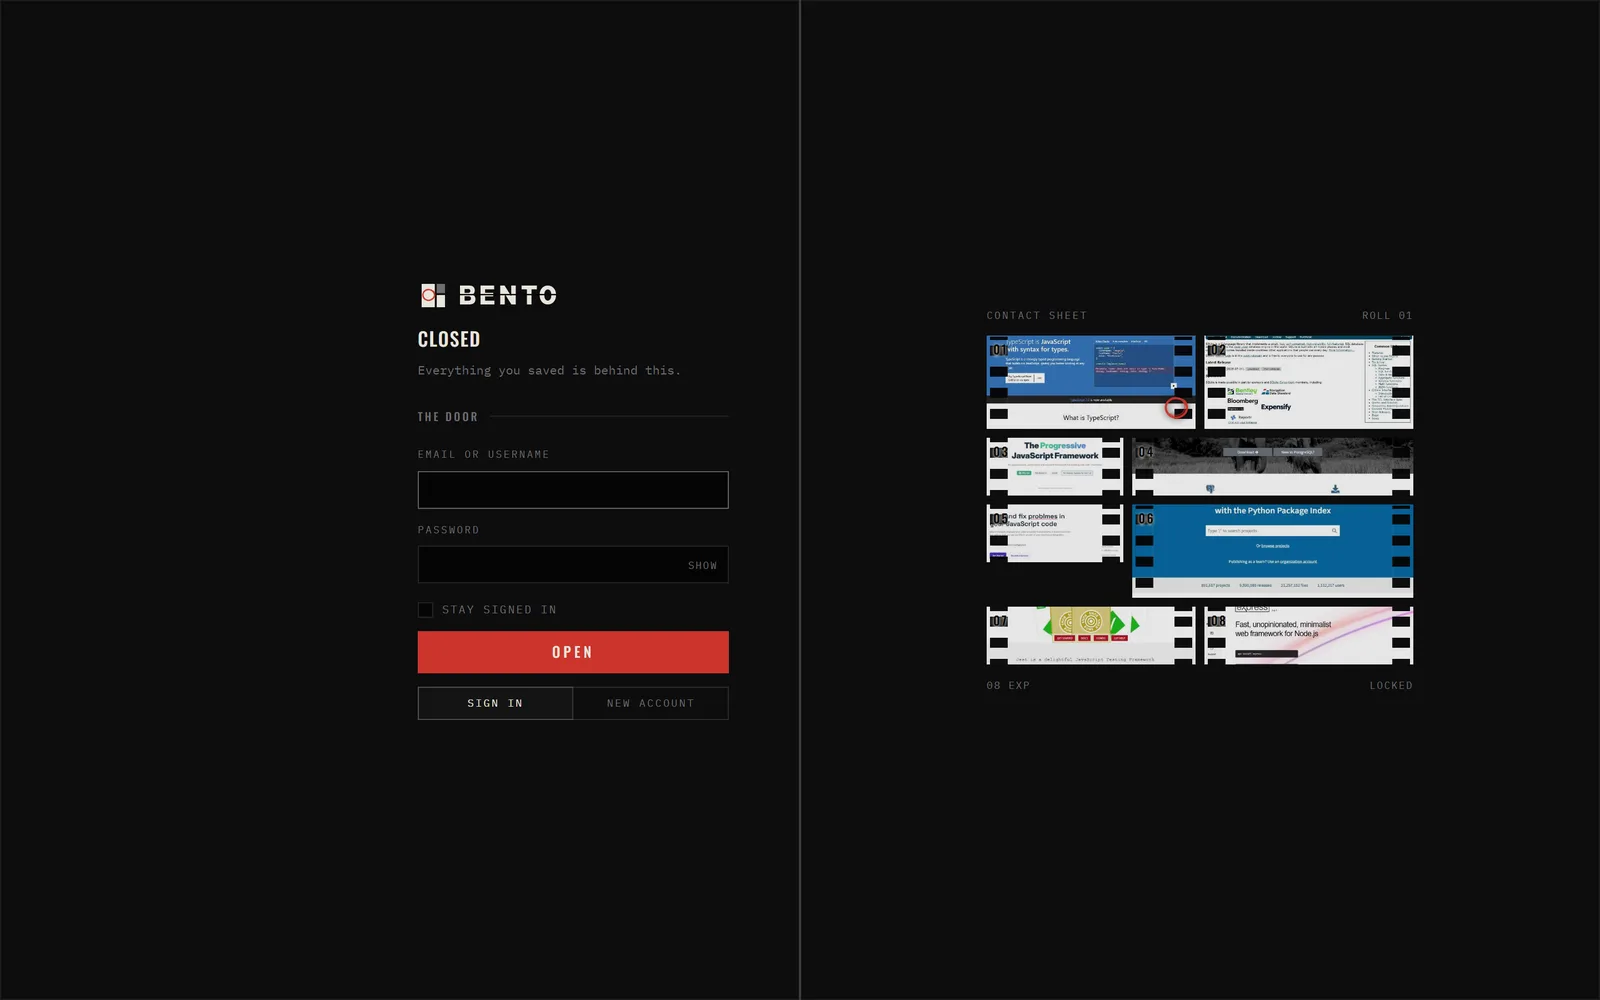
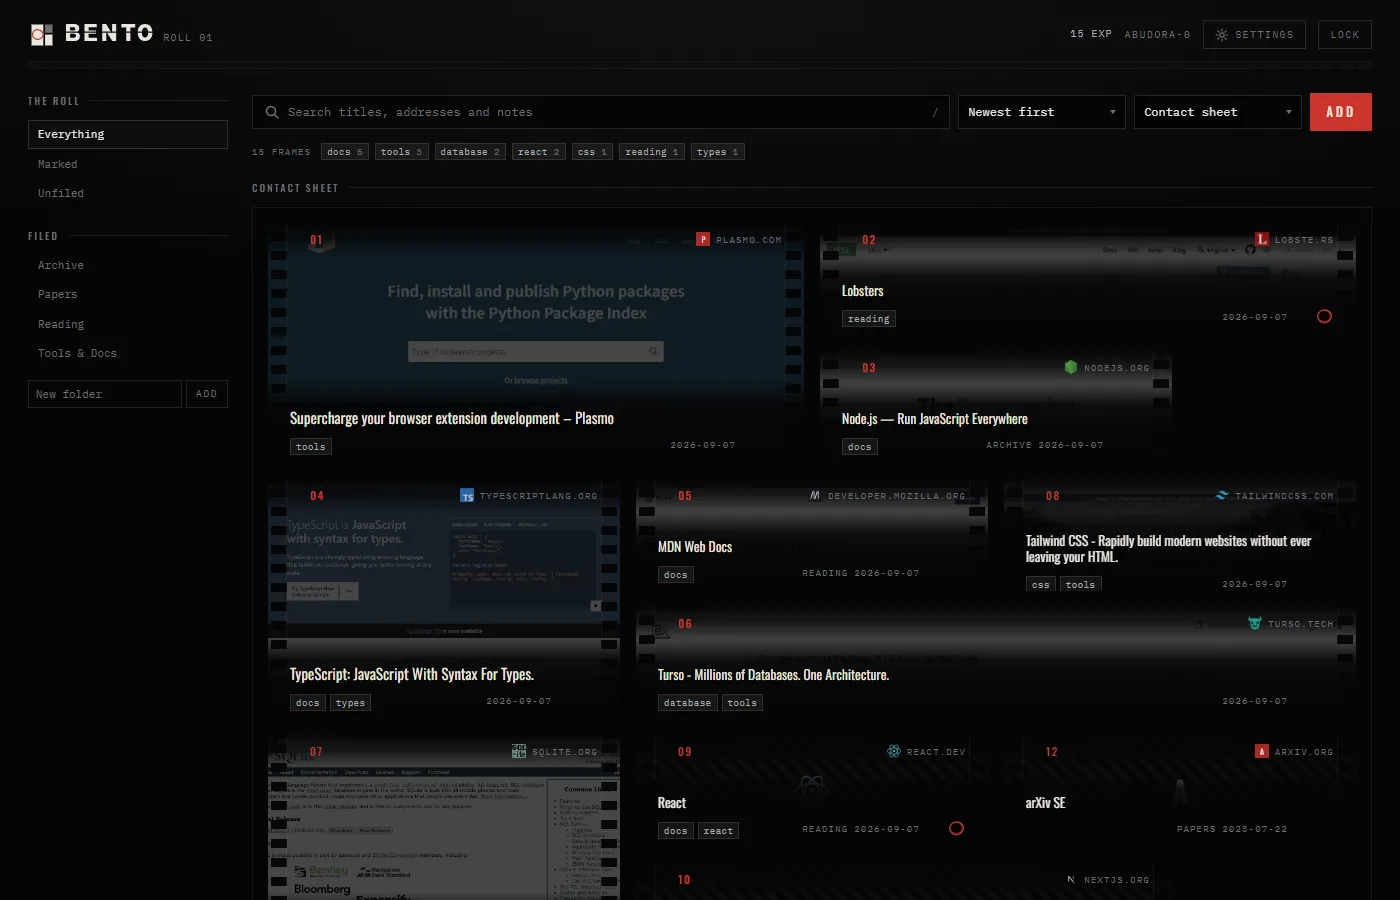
Fix screenshots and index row layout found on the deployed site
- omnikit-2 was a screenshot of a 404 page: the tool route it pointed at does
  not exist. The grid view replaces it, which shows the breadth anyway
- bento-2 was the lock screen, almost entirely empty. Bento's own committed
  capture of the sheet goes in instead, so the product is finally visible
- wakaru-4 was an empty drop zone. Swapped for Wakaru's capture of a page
  actually read and translated
- Capture script learns two options: a local `from` source for shots the live
  site cannot reach without signing in or uploading a file, and `scrollY`
- Index rows carry the tagline, which fills the dead stretch between the name
  and the metadata on wide screens
- Ship dates read "Sep '26" rather than "Sep 26", which scanned as a day
- The hover hint is hidden on touch, where there is nothing to hover
- metadataBase points at the domain the site is actually served from

diff --git a/src/components/work-section.tsx b/src/components/work-section.tsx
@@ -19,8 +19,14 @@ import { ArrowUpRightIcon, GridIcon, ListIcon } from "@/components/icons";
 const PREVIEW_W = 460;
 const PREVIEW_H = 288;
 
+/*
+ * "Sep '26" rather than "Sep 26", which reads as the twenty sixth of September
+ * at a glance and makes every row look like it shipped on a specific day.
+ */
 function shipMonth(iso: string) {
-  return new Date(iso).toLocaleDateString("en-US", { month: "short", year: "2-digit" });
+  const d = new Date(iso);
+  const month = d.toLocaleDateString("en-US", { month: "short" });
+  return `${month} '${String(d.getFullYear()).slice(-2)}`;
 }
 
 /**
@@ -125,11 +131,17 @@ function IndexRow({
         </span>
 
         <h3
-          className="font-display min-w-0 flex-1 truncate text-[1.6rem] italic leading-none tracking-tight transition-colors duration-300 sm:text-[2.6rem]"
+          className="font-display min-w-0 flex-1 truncate text-[1.6rem] italic leading-none tracking-tight transition-colors duration-300 sm:text-[2.6rem] lg:w-[19rem] lg:flex-none"
           style={{ color: hovered ? project.accent : undefined }}
         >
           {project.name}
         </h3>
+
+        {/* Fills what is otherwise a long empty stretch between the name and
+            the metadata on wide screens. */}
+        <span className="hidden min-w-0 flex-1 truncate text-sm text-muted lg:block">
+          {project.tagline}
+        </span>
 
         <span className="hidden shrink-0 font-mono text-[10px] uppercase tracking-[0.16em] text-faint sm:block">
           {project.domain}
@@ -240,8 +252,10 @@ export function WorkSection() {
             </h2>
           </div>
           <p className="max-w-xs text-sm leading-relaxed text-muted">
-            Real screenshots, captured from the live deployments. Hover a row to
-            see one.
+            Real screenshots, captured from the live deployments.
+            {/* Hovering is not a thing on a touch screen, where the rows carry
+                their own thumbnails instead. */}
+            <span className="hidden lg:inline"> Hover a row to see one.</span>
           </p>
         </div>
 

diff --git a/src/data/projects.ts b/src/data/projects.ts
@@ -63,7 +63,7 @@ export const projects: Project[] = [
     ],
     shots: [
       { src: "/shots/bento-1.webp", caption: "A contact sheet for everything you save" },
-      { src: "/shots/bento-2.webp", caption: "The lock screen" },
+      { src: "/shots/bento-2.webp", caption: "The sheet itself, once you are inside" },
     ],
   },
   {
@@ -212,7 +212,7 @@ export const projects: Project[] = [
     ],
     shots: [
       { src: "/shots/omnikit-1.webp", caption: "One kit for every quick fix" },
-      { src: "/shots/omnikit-2.webp", caption: "A tool running entirely in the browser" },
+      { src: "/shots/omnikit-2.webp", caption: "The tool grid, searchable and filtered by kind" },
     ],
   },
   {
@@ -301,7 +301,7 @@ export const projects: Project[] = [
       { src: "/shots/wakaru-1.webp", caption: "Understand anything you read" },
       { src: "/shots/wakaru-2.webp", caption: "Dialect aware translation" },
       { src: "/shots/wakaru-3.webp", caption: "The multilingual dictionary" },
-      { src: "/shots/wakaru-4.webp", caption: "The manga OCR reader" },
+      { src: "/shots/wakaru-4.webp", caption: "A manga page read and translated in the browser" },
     ],
   },
 ];

diff --git a/src/app/layout.tsx b/src/app/layout.tsx
@@ -27,9 +27,9 @@ const bricolage = Bricolage_Grotesque({
   axes: ["opsz", "wdth"],
 });
 
-// No custom domain yet. This only needs to be absolute so Next can resolve
-// social image URLs; update it the day the site gets a real home.
-const url = "https://abudora.vercel.app";
+// Where the site actually lives. Only needs to be absolute so Next can resolve
+// social image URLs; update it the day a custom domain points here.
+const url = "https://abudora-summer.vercel.app";
 
 export const metadata: Metadata = {
   metadataBase: new URL(url),
